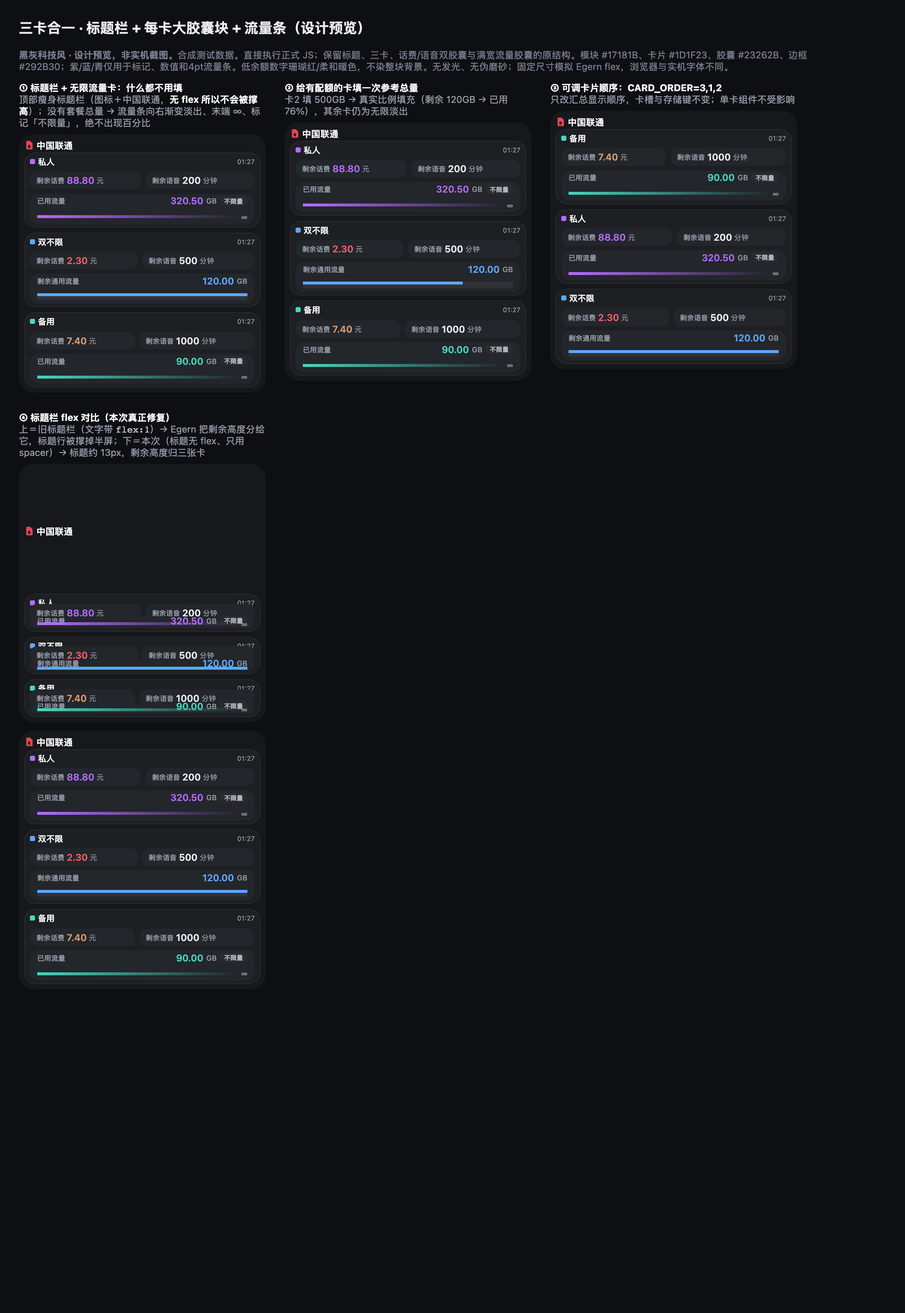
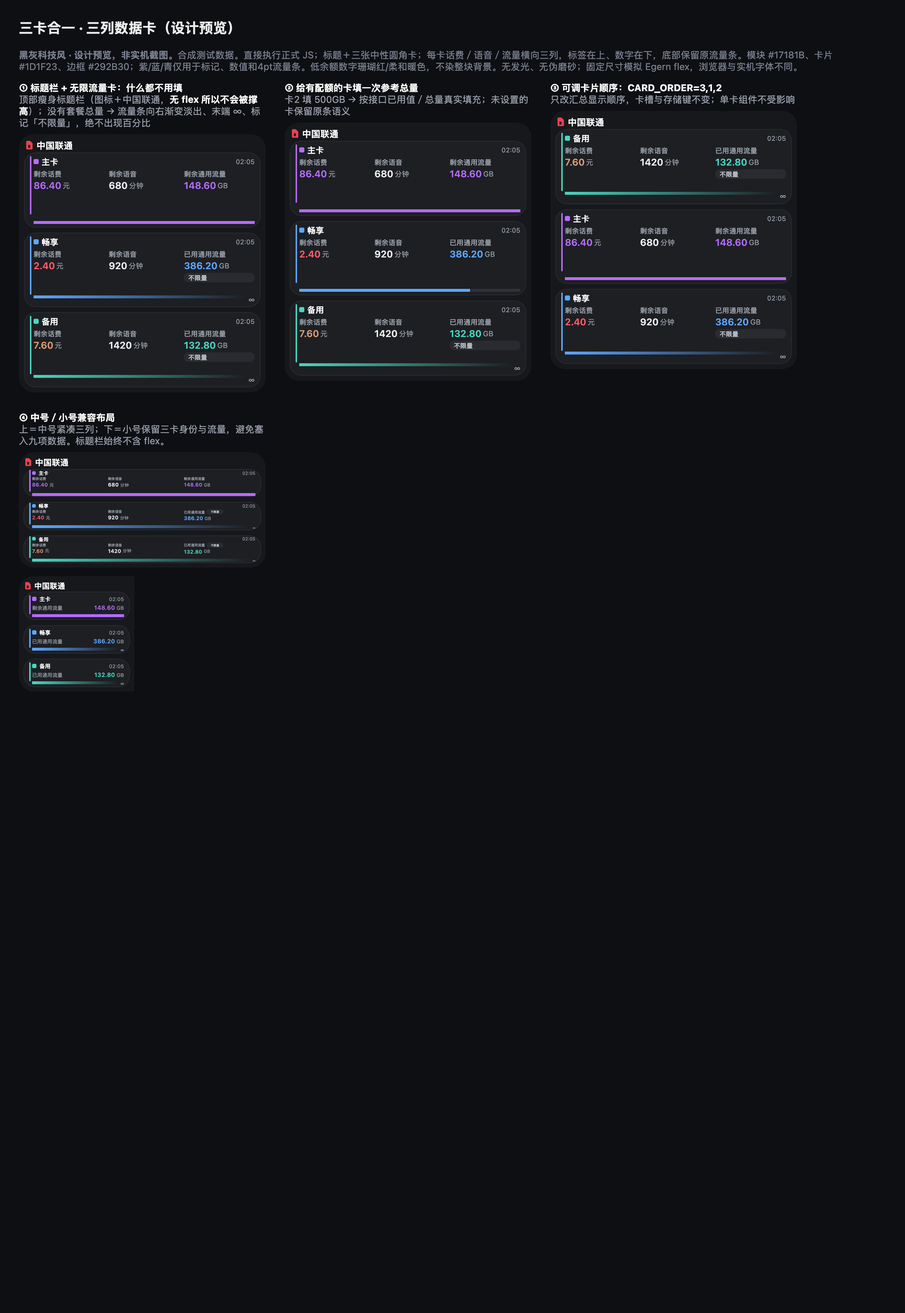
fix(widget): match reference with three-column summary cards

diff --git a/preview/compact.html b/preview/compact.html
@@ -1,6 +1,6 @@
-<!doctype html><meta charset="utf-8"><title>三卡汇总 胶囊块 DSL 设计预览</title>
+<!doctype html><meta charset="utf-8"><title>三卡汇总 三列卡 DSL 设计预览</title>
 <style>body{font:14px system-ui;background:#e7e9ee;padding:24px}#preview{margin-top:20px;box-shadow:0 8px 24px #0002;border-radius:20px;overflow:hidden;box-sizing:border-box}label{margin-right:12px}pre{max-height:220px;overflow:auto}p{max-width:900px}</style>
-<h2>三卡合一 · 标题栏 + 每卡大胶囊块 + 流量条 DSL 设计预览</h2><p class="note"><b>黑灰科技风 · 设计预览，非实机截图。</b>合成测试数据。直接执行正式 JS；保留标题、三卡、话费/语音双胶囊与满宽流量胶囊的原结构。模块 #17181B、卡片 #1D1F23、胶囊 #23262B、边框 #292B30；紫/蓝/青仅用于标记、数值和4pt流量条。低余额数字珊瑚红/柔和暖色，不染整块背景。无发光、无伪磨砂；固定尺寸模拟 Egern flex，浏览器与实机字体不同。</p>
+<h2>三卡合一 · 标题栏 + 三列数据卡 + 流量条 DSL 设计预览</h2><p class="note"><b>黑灰科技风 · 设计预览，非实机截图。</b>合成测试数据。直接执行正式 JS；话费／语音／流量横向三列，标签在上、数字在下，底部保留原流量条。模块 #17181B、卡片 #1D1F23、边框 #292B30；紫/蓝/青仅用于标记、数值和4pt流量条。低余额数字珊瑚红/柔和暖色，不染整块背景。无发光、无伪磨砂；固定尺寸模拟 Egern flex，浏览器与实机字体不同。</p>
 <label>尺寸 <select id="family"><option>systemMedium</option><option>systemSmall</option><option>systemLarge</option><option>systemExtraLarge</option><option>accessoryRectangular</option><option>accessoryCircular</option><option>accessoryInline</option></select></label>
 <label><input id="dark" type="checkbox">深色</label><label><input id="titlebar" type="checkbox" checked>顶部标题栏</label><label><input id="suffix" type="checkbox">尾四位</label><label><input id="fail" type="checkbox">卡2失效</label><label>卡1别名 <input id="alias" value="双不限"></label><label>卡2参考总量 <input id="total" placeholder="可选，如 500GB"></label><label>卡片顺序 <input id="order" placeholder="1,2,3"></label>
 <div id="preview"></div><details><summary>实际 JS 返回的 DSL</summary><pre id="tree"></pre></details>
@@ -17,7 +17,7 @@ function render(n){const e=document.createElement('div');e.dataset.type=n.type;c
   if(String(n.src).startsWith('sf-symbol:')){const g=document.createElement('div');g.style.width=sz+'px';g.style.height=sz+'px';g.style.display='flex';g.style.alignItems='center';g.style.justifyContent='center';g.title=n.src;g.innerHTML='<svg viewBox="0 0 24 24" width="'+sz+'" height="'+sz+'" fill="'+(n.color?color(n.color):($('dark').checked?'#EDEFF2':'#1B1C1E'))+'"><path d="M7 2h7.2L20 7.8V20a2 2 0 0 1-2 2H7a2 2 0 0 1-2-2V4a2 2 0 0 1 2-2zm2.5 9.5v7h5v-7h-5z"/></svg>';e.append(g);e.style.width=sz+'px';return e;}
   const img=document.createElement('img');img.src=localSrc(n.src);img.style.width=sz+'px';img.style.height=(n.height||15)+'px';img.style.objectFit=n.resizeMode||'contain';img.style.display='block';if(n.borderRadius)img.style.borderRadius=n.borderRadius+'px';e.append(img);e.style.width=sz+'px';return e;}
  if(n.type==='text'){e.textContent=n.text;s.fontSize=n.font.size+'px';s.fontWeight={regular:400,medium:500,semibold:600,bold:700}[n.font.weight];s.color=color(n.textColor);s.whiteSpace='nowrap';s.overflow='hidden';s.textOverflow='ellipsis';}
- else{const col=n.type==='widget'||n.direction!=='row';s.display='flex';s.flexDirection=col?'column':'row';s.alignItems=n.alignItems||'stretch';if(n.gap)s.gap=n.gap+'px';if(n.padding!==undefined)s.padding=Array.isArray(n.padding)?n.padding.map(v=>v+'px').join(' '):n.padding+'px';if(n.backgroundGradient){const g=n.backgroundGradient;s.background='linear-gradient(90deg,'+color(g.colors[0])+','+color(g.colors[1])+')';}else if(n.backgroundColor)s.background=color(n.backgroundColor);if(n.borderWidth){s.border=n.borderWidth+'px solid '+(n.borderColor?color(n.borderColor):'transparent');}if(n.borderRadius)s.borderRadius=n.borderRadius+'px';if(n.width)s.width=n.width+'px';if(n.height)s.height=n.height+'px';if(n.type==='spacer')s.flex=col?'1 1 0px':'1 1 0';for(const c of n.children||[]){const el=render(c);if(col&&hasFlex(c)){el.style.flex='1 1 0px';el.style.minHeight='0';}else if(c.flex)el.style.flex=String(c.flex)+' 1 auto';e.append(el);}}
+ else{const col=n.type==='widget'||n.direction!=='row';s.display='flex';s.flexDirection=col?'column':'row';s.alignItems=n.alignItems||'stretch';if(n.gap)s.gap=n.gap+'px';if(n.padding!==undefined)s.padding=Array.isArray(n.padding)?n.padding.map(v=>v+'px').join(' '):n.padding+'px';if(n.backgroundGradient){const g=n.backgroundGradient;s.background='linear-gradient(90deg,'+color(g.colors[0])+','+color(g.colors[1])+')';}else if(n.backgroundColor)s.background=color(n.backgroundColor);if(n.borderWidth){s.border=n.borderWidth+'px solid '+(n.borderColor?color(n.borderColor):'transparent');}if(n.borderRadius)s.borderRadius=n.borderRadius+'px';if(n.width)s.width=n.width+'px';if(n.height){s.height=n.height+'px';s.flexShrink='0';}if(n.type==='spacer')s.flex=col?'1 1 0px':'1 1 0';for(const c of n.children||[]){const el=render(c);if(col&&hasFlex(c)&&!c.height){el.style.flex='1 1 0px';el.style.minHeight='0';}else if(c.flex){el.style.flex=String(c.flex)+' 1 0px';if(!col)el.style.alignSelf='stretch';}e.append(el);}}
  if(n.flex&&n.type==='widget')s.flex=String(n.flex)+' 1 auto';s.minWidth='0';return e;}
 async function update(){const rows=[{f:['剩余话费','12.34','元'],v:['剩余语音','200','分钟'],fl:['已用流量','320.50','GB']},{f:['剩余话费','88.00','元'],v:['剩余语音','500','分钟'],fl:['剩余通用流量','120.00','GB']},{f:['剩余话费','5.00','元'],v:['剩余语音','1000','分钟'],fl:['已用流量','90.00','GB']}];const records=new Map(rows.map((r,i)=>['egern.unicom3.v1.slot.'+(i+1),{phone:'1300000000'+(i+1),cookie:'synthetic-not-a-real-cookie',capturedAt:1,updatedAt:Date.now()-120000,dataSchema:2,...($('fail').checked&&i===1?{invalid:true}:{}),data:[{title:r.f[0],value:r.f[1],unit:r.f[2]},{title:r.v[0],value:r.v[1],unit:r.v[2]},{title:r.fl[0],value:r.fl[1],unit:r.fl[2]}]}]));const t=await run({env:{VIEW:'all',CARD1_NAME:$('alias').value,CARD2_TOTAL:$('total').value,CARD_ORDER:$('order').value,SHOW_BRAND:$('titlebar').checked?'true':'false',SHOW_PHONE_SUFFIX:String($('suffix').checked)},widgetFamily:$('family').value,storage:{getJSON:k=>records.get(k),setJSON:(k,v)=>records.set(k,v)},http:{get:()=>{throw Error('preview must use fixture cache only')}}});const widths={systemMedium:360,systemSmall:170,systemLarge:360,systemExtraLarge:500,accessoryRectangular:170,accessoryCircular:90,accessoryInline:360};const f=FRAME[$('family').value]||FRAME.systemMedium;$('preview').style.width=f[0]+'px';$('preview').style.height=f[1]+'px';$('preview').style.overflow='hidden';$('preview').replaceChildren(render(t));$('tree').textContent=JSON.stringify(t,null,2);window.lastDSL=t;}
 for(const e of document.querySelectorAll('input,select'))e.addEventListener('input',update);await update();

diff --git a/preview/compact-preview.html b/preview/compact-preview.html
@@ -1,12 +1,12 @@
 <!doctype html><meta charset="utf-8"><title>三卡汇总 设计预览</title>
 <style>body{font:13px system-ui;background:#0e0f13;color:#eee;padding:26px;margin:0}.wrap{display:flex;gap:26px;flex-wrap:wrap}.box{width:338px}.cap{color:#9aa0ad;margin:0 0 8px}.cap b{color:#fff}.cap code{color:#c7ccd6}.holder{border-radius:20px;overflow:hidden}.note{color:#7b8090;margin-top:18px;max-width:1140px}code{color:#c7ccd6}</style>
-<h2 style="margin:0 0 6px">三卡合一 · 标题栏 + 每卡大胶囊块 + 流量条（设计预览）</h2>
-<p class="note"><b>黑灰科技风 · 设计预览，非实机截图。</b>合成测试数据。直接执行正式 JS；保留标题、三卡、话费/语音双胶囊与满宽流量胶囊的原结构。模块 #17181B、卡片 #1D1F23、胶囊 #23262B、边框 #292B30；紫/蓝/青仅用于标记、数值和4pt流量条。低余额数字珊瑚红/柔和暖色，不染整块背景。无发光、无伪磨砂；固定尺寸模拟 Egern flex，浏览器与实机字体不同。</p>
+<h2 style="margin:0 0 6px">三卡合一 · 三列数据卡（设计预览）</h2>
+<p class="note"><b>黑灰科技风 · 设计预览，非实机截图。</b>合成测试数据。直接执行正式 JS；标题＋三张中性圆角卡；每卡话费／语音／流量横向三列，标签在上、数字在下，底部保留原流量条。模块 #17181B、卡片 #1D1F23、边框 #292B30；紫/蓝/青仅用于标记、数值和4pt流量条。低余额数字珊瑚红/柔和暖色，不染整块背景。无发光、无伪磨砂；固定尺寸模拟 Egern flex，浏览器与实机字体不同。</p>
 <div class="wrap">
  <div class="box"><p class="cap"><b>① 标题栏 + 无限流量卡：什么都不用填</b><br>顶部瘦身标题栏（图标＋中国联通，<b>无 flex 所以不会被撑高</b>）；没有套餐总量 → 流量条向右渐变淡出、末端 ∞、标记「不限量」，绝不出现百分比</p><div class="holder" id="a"></div></div>
- <div class="box"><p class="cap"><b>② 给有配额的卡填一次参考总量</b><br>卡2 填 500GB → 真实比例填充（剩余 120GB → 已用 76%），其余卡仍为无限淡出</p><div class="holder" id="b"></div></div>
+ <div class="box"><p class="cap"><b>② 给有配额的卡填一次参考总量</b><br>卡2 填 500GB → 按接口已用值／总量真实填充；未设置的卡保留原条语义</p><div class="holder" id="b"></div></div>
  <div class="box"><p class="cap"><b>③ 可调卡片顺序：CARD_ORDER=3,1,2</b><br>只改汇总显示顺序，卡槽与存储键不变；单卡组件不受影响</p><div class="holder" id="c"></div></div>
- <div class="box"><p class="cap"><b>④ 标题栏 flex 对比（本次真正修复）</b><br>上＝旧标题栏（文字带 <code>flex:1</code>）→ Egern 把剩余高度分给它，标题行被撑掉半屏；下＝本次（标题无 flex、只用 spacer）→ 标题约 13px，剩余高度归三张卡</p><div class="holder" id="before"></div><div style="height:12px"></div><div class="holder" id="after"></div></div>
+ <div class="box"><p class="cap"><b>④ 中号／小号兼容布局</b><br>上＝中号紧凑三列；下＝小号保留三卡身份与流量，避免塞入九项数据。标题栏始终不含 flex。</p><div class="holder" id="before"></div><div style="height:12px"></div><div class="holder" id="after"></div></div>
 </div>
 <script type="module">
 import run from '../UnicomThreeCards.js';
@@ -31,12 +31,12 @@ function render(n,vertical){
   if(n.borderWidth)e.style.border=n.borderWidth+'px solid '+(n.borderColor?color(n.borderColor):'transparent');
   if(n.borderRadius)e.style.borderRadius=n.borderRadius+'px';
   if(n.width)e.style.width=n.width+'px';
-  if(n.height)e.style.height=n.height+'px';
+  if(n.height){e.style.height=n.height+'px';e.style.flexShrink='0';}
   if(n.type==='spacer')e.style.flex=col?'1 1 0px':'1 1 0';
   for(const c of n.children||[]){
    const el=render(c,col);
-   if(col&&hasFlex(c)){el.style.flex='1 1 0px';el.style.minHeight='0';}
-   else if(c.flex)el.style.flex=String(c.flex)+' 1 auto';
+   if(col&&hasFlex(c)&&!c.height){el.style.flex='1 1 0px';el.style.minHeight='0';}
+   else if(c.flex){el.style.flex=String(c.flex)+' 1 0px';if(!col)el.style.alignSelf='stretch';}
    e.append(el);
   }
  }
@@ -44,14 +44,14 @@ function render(n,vertical){
  e.style.minWidth='0';
  return e;
 }
-const rows=[['私人','剩余话费','88.80','元','剩余语音','200','分钟','已用流量','320.50','GB'],['双不限','剩余话费','2.30','元','剩余语音','500','分钟','剩余通用流量','120.00','GB'],['备用','剩余话费','7.40','元','剩余语音','1000','分钟','已用流量','90.00','GB']];
+const rows=[['主卡','剩余话费','86.40','元','剩余语音','680','分钟','剩余通用流量','148.60','GB'],['畅享','剩余话费','2.40','元','剩余语音','920','分钟','已用通用流量','386.20','GB'],['备用','剩余话费','7.60','元','剩余语音','1420','分钟','已用通用流量','132.80','GB']];
 function fixture(){const m=new Map();rows.forEach((r,i)=>{m.set('egern.unicom3.v1.slot.'+(i+1),{phone:'1300000000'+(i+1),cookie:'synthetic',capturedAt:1,updatedAt:Date.now()-600000,dataSchema:2,data:[{title:r[1],value:r[2],unit:r[3]},{title:r[4],value:r[5],unit:r[6]},{title:r[7],value:r[8],unit:r[9]}]});});return m;}
 function frame(root,family){const f=FRAME[family]||FRAME.systemLarge;root.style.width=f[0]+'px';root.style.height=f[1]+'px';root.style.overflow='hidden';return root;}
 async function draw(id,env,family='systemLarge',mangle){const m=fixture();const t=await run({env:{VIEW:'all',...env},widgetFamily:family,storage:{getJSON:k=>m.get(k),setJSON:(k,v)=>m.set(k,v)},http:{get:()=>{throw Error('fixture cache only')}}});if(mangle)mangle(t);document.getElementById(id).replaceChildren(frame(render(t),family));}
-await draw('a',{CARD1_NAME:'私人',CARD2_NAME:'双不限',CARD3_NAME:'备用'});
-await draw('b',{CARD1_NAME:'私人',CARD2_NAME:'双不限',CARD3_NAME:'备用',CARD2_TOTAL:'500GB'});
-await draw('c',{CARD1_NAME:'私人',CARD2_NAME:'双不限',CARD3_NAME:'备用',CARD_ORDER:'3,1,2'});
-// Re-create the OLD bug: put flex back on the title text so the heading takes the leftover height.
-await draw('before',{CARD1_NAME:'私人',CARD2_NAME:'双不限',CARD3_NAME:'备用'},'systemLarge',t=>{const bar=t.children[0];bar.children[1]={...bar.children[1],flex:1};bar.children.pop();});
-await draw('after',{CARD1_NAME:'私人',CARD2_NAME:'双不限',CARD3_NAME:'备用'});
+await draw('a',{CARD1_NAME:'主卡',CARD2_NAME:'畅享',CARD3_NAME:'备用'});
+await draw('b',{CARD1_NAME:'主卡',CARD2_NAME:'畅享',CARD3_NAME:'备用',CARD2_TOTAL:'500GB'});
+await draw('c',{CARD1_NAME:'主卡',CARD2_NAME:'畅享',CARD3_NAME:'备用',CARD_ORDER:'3,1,2'});
+// Compatibility previews keep all three slots on smaller home families.
+await draw('before',{CARD1_NAME:'主卡',CARD2_NAME:'畅享',CARD3_NAME:'备用'},'systemMedium');
+await draw('after',{CARD1_NAME:'主卡',CARD2_NAME:'畅享',CARD3_NAME:'备用'},'systemSmall');
 </script>

diff --git a/UnicomThreeCards.js b/UnicomThreeCards.js
@@ -146,7 +146,7 @@ const BAR_H=4, SEP_H=2;
 const CARD_RADIUS=16, CARD_GAP=7, TITLE_GAP=2, CARD_PAD=[4,7,4,7];
 const UNIT_MB={KB:1/1024,M:1,MB:1,G:1024,GB:1024,T:1024*1024,TB:1024*1024};
 // thead/ticon: the summary's slim top title bar (text / icon), kept small so the cards get the room.
-const FLOW_SIZES={systemSmall:{name:10,unit:8,title:8,value:10,label:8,tag:7,time:8,icon:6,thead:11,ticon:12,cpad:[2,6,2,6],fpad:[3,6,3,6],gap:2,fgap:1},systemMedium:{name:9,unit:8,title:8,value:10,label:8,tag:7,time:7,icon:6,thead:12,ticon:13,cpad:[1,6,1,6],fpad:[2,6,2,6],gap:2,fgap:1},systemLarge:{name:12,unit:10,title:10,value:13,label:10,tag:9,time:9,icon:7,thead:13,ticon:14,cpad:[4,9,4,9],fpad:[5,10,5,10],gap:3,fgap:2},systemExtraLarge:{name:13,unit:10,title:11,value:14,label:11,tag:10,time:10,icon:8,thead:14,ticon:15,cpad:[5,10,5,10],fpad:[6,11,6,11],gap:3,fgap:2}};
+const FLOW_SIZES={systemSmall:{name:8,unit:7,title:7,value:8,label:7,tag:5,time:7,icon:6,thead:11,ticon:12,cpad:[2,6,2,6],fpad:[3,6,3,6],gap:2,fgap:1},systemMedium:{name:7,unit:6,title:5,value:7,label:5,tag:4,time:6,icon:5,thead:12,ticon:13,cpad:[1,6,1,6],fpad:[2,6,2,6],gap:2,fgap:1},systemLarge:{name:12,unit:10,title:10,value:13,label:10,tag:9,time:9,icon:7,thead:13,ticon:14,cpad:[4,9,4,9],fpad:[5,10,5,10],gap:3,fgap:2},systemExtraLarge:{name:13,unit:10,title:11,value:14,label:11,tag:10,time:10,icon:8,thead:14,ticon:15,cpad:[5,10,5,10],fpad:[6,11,6,11],gap:3,fgap:2}};
 // Which resource the API title describes; never inferred from the value itself.
 function flowSemantic(title) {
  if(typeof title!=='string') return 'neutral';
@@ -244,8 +244,8 @@ function compactIdentity(alias,suffix,family,s) {
  if(suffix) parts.push({...text('· 尾号'+suffix,s.name-2,COLORS.value,'medium'),minScale:1});
  return parts;
 }
-// Summary geometry is unchanged: identity/time, two resource capsules, full-width flow capsule.
-// Only surfaces, text accents and warning colours differ from the previous tinted design.
+// Three-column reference layout: identity/time, fee + voice + flow, bottom bar.
+// A narrow documented stack rail marks the slot; no tinted metric capsules.
 function compactCard(ctx,result,selection,family,metric) {
  const lock=family.startsWith('accessory'),small=family==='systemSmall';
  const s=FLOW_SIZES[family]||FLOW_SIZES.systemMedium;
@@ -254,18 +254,18 @@ function compactCard(ctx,result,selection,family,metric) {
  const dot={type:'stack',width:s.icon,height:s.icon,borderRadius:2,backgroundColor:SUMMARY_COLORS[slot],children:[]};
  const time=result.updatedAt?new Date(result.updatedAt).toLocaleTimeString('zh-CN',{hour:'2-digit',minute:'2-digit',timeZone:'Asia/Shanghai'}):'--:--';
  const idRow=row([dot,...compactIdentity(alias,lock?'':result.suffix,family,s),spacer(),{...text(time,s.time,SUMMARY_MUTED),minScale:1}],4);
- const block=children=>({type:'stack',direction:'column',gap:s.gap,padding:CARD_PAD,flex:1,backgroundColor:slotCardBg(slot),borderRadius:CARD_RADIUS,borderWidth:1,borderColor:slotCardBorder(slot),children});
+ const block=children=>({type:'stack',direction:'row',alignItems:'start',gap:s.gap,padding:family==='systemMedium'?[0,7,0,7]:CARD_PAD,flex:1,backgroundColor:slotCardBg(slot),borderRadius:CARD_RADIUS,borderWidth:1,borderColor:slotCardBorder(slot),children:[{type:'stack',direction:'column',width:2,height:small?26:family==='systemMedium'?30:80,borderRadius:1,backgroundColor:SUMMARY_COLORS[slot],children:[]},{type:'stack',direction:'column',gap:family==='systemMedium'?1:s.gap,flex:1,children}]});
  if(!result.data) return lock?{type:'stack',direction:'column',gap:2,children:[idRow,text(result.status,9,COLORS.accent)]}:block([idRow,text(result.status,small?9:11,COLORS.accent)]);
  const [fee,voice,flow]=result.data;
  if(lock) return {type:'stack',direction:'column',gap:1,children:[row([dot,...compactIdentity(alias,'',family,s),text(flow.value,s.value,COLORS.value,'semibold'),text(flow.unit,s.unit,SUMMARY_MUTED)],3)]};
  const feeColor=summaryFeeColor(fee,balanceThreshold(ctx.env?.LOW_BALANCE_THRESHOLD),slot);
  const valueColor=SUMMARY_COLORS[slot];
- const topRow=row([{...text(flow.title,s.title,SUMMARY_MUTED,'medium'),flex:1},text(flow.value,s.value,valueColor,'semibold'),text(flow.unit,s.unit,SUMMARY_MUTED,'medium'),...(metric.unlimited?[chip('不限量',s)]:[])],4);
- // The flow capsule is flexible and holds a spacer above its bar, so when the card is given extra
- // height the bar sinks to the bottom instead of leaving a dead tinted gap under the label.
- const flowCapsule={type:'stack',direction:'column',gap:s.fgap,padding:s.fpad,flex:1,backgroundColor:slotTint(slot),borderRadius:12,children:[topRow,spacer(),flowBar(slot,metric,s)]};
- const mid=small?[]:[row([miniCapsule(fee,slot,s,feeColor),miniCapsule(voice,slot,s)],6)];
- return block([idRow,...mid,flowCapsule]);
+ const column=(d,color,badge=false)=>({type:'stack',direction:'column',flex:1,gap:s.fgap,children:[...(badge&&family==='systemMedium'?[row([text(d.title,s.label,SUMMARY_MUTED,'medium'),chip('不限量',s)],2)]:[text(d.title,s.label,SUMMARY_MUTED,'medium')]),row([text(d.value,s.value,color,'semibold'),text(d.unit,s.unit,SUMMARY_MUTED)],2),...(badge&&family!=='systemMedium'?[chip('不限量',s)]:[])]});
+ // Small widgets keep the three identities and exact flow values, without cramming nine metrics.
+ const metrics=small?row([text(flow.title,s.title,SUMMARY_MUTED),spacer(),text(flow.value,s.value,valueColor,'semibold'),text(flow.unit,s.unit,SUMMARY_MUTED)],2):row([column(fee,feeColor),column(voice,SUMMARY_INK),column(flow,valueColor,metric.unlimited)],6);
+ const bottom={type:'stack',direction:'column',height:metric.unlimited?Math.max(BAR_H,s.tag*1.3):metric.ratio===null?SEP_H:BAR_H,children:[flowBar(slot,metric,s)]};
+ if(!small){metrics.alignItems='start';metrics.height=s.label*1.3+s.value*1.3+s.fgap+(metric.unlimited&&family!=='systemMedium'?s.tag*1.3+2+s.fgap:0);}
+ return block([idRow,metrics,spacer(),bottom]);
 }
 // Decide each card's bar: unlimited (no total + "已用" label) fades out; a configured total gives a
 // real used/total ratio; otherwise a relative length versus the max same-caliber value of the three.

diff --git a/tests/compact.test.js b/tests/compact.test.js
@@ -3,6 +3,7 @@ import assert from 'node:assert/strict';
 import run from '../UnicomThreeCards.js';
 import {mock,capture,phones,cards,cardHolder} from './helpers.js';
 const texts=n=>[...(n.type==='text'?[n.text]:[]),...(n.children||[]).flatMap(texts)];
+const nodes=n=>[n,...(n.children||[]).flatMap(nodes)];
 test('all renders three compact independent rows with exact API flow semantics',async()=>{
  const m=mock();for(const p of phones) await capture(m,p);
  m.ctx.env={VIEW:'all',CARD1_NAME:'双不限',CARD2_NAME:'副卡',CARD3_NAME:'备用'};
@@ -52,7 +53,7 @@ test('all settings retain exact titles, alias and cache timestamp without rerequ
  assert.equal(m.calls.length,3);assert.equal(t.backgroundColor.light,'#F3F4F6B3');assert.ok(texts(t).includes('我的三卡'));assert.ok(texts(t).includes('· 尾号0001'));
  assert.deepEqual([1,2,3].map(i=>m.ctx.storage.getJSON('egern.unicom3.v1.slot.'+i)),records);
 });
-test('medium summary is a three-row capsule card inside one rounded slot-tinted block',async()=>{
+test('medium summary is a three-column metric row inside one neutral rounded card',async()=>{
  const m=mock();for(const p of phones)await capture(m,p);
  const t=await run({...m.ctx,env:{VIEW:'all'}});
  assert.equal(cards(t).length,3);
@@ -62,24 +63,19 @@ test('medium summary is a three-row capsule card inside one rounded slot-tinted 
  cards(t).forEach((card,i)=>{
   assert.equal(card.type,'stack');assert.equal(card.gap,2);assert.equal(card.flex,1); // cards share the height
   // The whole card is one rounded block: slot wash over the base + a brighter 1px outline.
-  assert.equal(card.borderRadius,16);assert.equal(card.borderWidth,1);assert.deepEqual(card.padding,[4,7,4,7]);
+  assert.equal(card.borderRadius,16);assert.equal(card.borderWidth,1);assert.deepEqual(card.padding,[0,7,0,7]);
   assert.equal(card.backgroundColor.light,'#F8F9FB');
   assert.equal(card.backgroundColor.dark,'#1D1F23');
   assert.equal(card.borderColor.light,'#DDE1E7');
-  const [idRow,mid,flowCap]=card.children;
-  assert.equal(idRow.type,'stack');assert.equal(mid.type,'stack');assert.equal(flowCap.type,'stack');
-  // row1: slot square + identity + right-aligned HH:mm, no big value on this line
+  const [rail,content]=card.children;
+  assert.equal(rail.width,2);assert.equal(rail.backgroundColor.dark,['#B66CFF','#5EA7FF','#48D7C0'][i]);
+  const [idRow,metrics,space,bottom]=content.children;
   assert.equal(idRow.children[0].type,'stack');assert.ok(idRow.children[0].width>0);
   assert.equal(idRow.children.at(-1).type,'text');assert.match(idRow.children.at(-1).text,/^(\d{2}:\d{2}|--:--)$/);
-  // row2: two equal capsules side by side, each keeping its own slot tint
-  assert.equal(mid.children.length,2);assert.ok(mid.children.every(c=>c.flex===1));
-  assert.equal(mid.children[0].backgroundColor.light,'#FFFFFF');
-  // row3: one full-width flow capsule (label + value over the bar), tinted with this card's slot.
-  // It is flexible and holds a spacer above the bar so extra height sinks the bar to the bottom.
-  assert.equal(flowCap.children.length,3);
-  assert.equal(flowCap.children[1].type,'spacer');
-  assert.equal(flowCap.backgroundColor.light,'#FFFFFF');
-  assert.equal(flowCap.children[2].children[0].backgroundGradient.type,'linear');
+  assert.equal(metrics.direction,'row');assert.equal(metrics.children.length,3);
+  for(const col of metrics.children){assert.equal(col.flex,1);assert.equal(col.direction,'column');assert.ok(!col.backgroundColor);assert.ok(nodes(col.children[0]).some(n=>n.type==='text'));assert.equal(col.children[1].direction,'row');}
+  assert.equal(space.type,'spacer');
+  assert.equal(bottom.children[0].children[0].backgroundGradient.type,'linear');
  });
  assert.ok(!texts(t).join('|').includes('%'));
 });

diff --git a/tests/three-column.test.js b/tests/three-column.test.js
@@ -1,0 +1,44 @@
+import test from 'node:test';
+import assert from 'node:assert/strict';
+import {readFileSync} from 'node:fs';
+import {createHash} from 'node:crypto';
+import run from '../UnicomThreeCards.js';
+import {mock,capture,phones,cards} from './helpers.js';
+const nodes=n=>[n,...(n.children||[]).flatMap(nodes)];
+for(const family of ['systemMedium','systemLarge','systemExtraLarge']) test('three metric columns with a single flow value and bottom bar in '+family,async()=>{
+ const m=mock();for(const p of phones)await capture(m,p);
+ await run({...m.ctx,env:{VIEW:'all'}});
+ const records=structuredClone([1,2,3].map(i=>m.ctx.storage.getJSON('egern.unicom3.v1.slot.'+i)));
+ const t=await run({...m.ctx,widgetFamily:family,env:{VIEW:'all',SHOW_PHONE_SUFFIX:'true'}});
+ for(const n of nodes(t))if(n.alignItems)assert.ok(['start','end','center'].includes(n.alignItems),'documented alignment only');
+ const hasFlex=n=>!!n.flex||(n.children||[]).some(hasFlex);
+ assert.equal(hasFlex(t.children[0]),false);
+ assert.equal(t.children[0].children[0].src,'sf-symbol:simcard.fill');
+ assert.equal(t.children[0].children[1].textColor.dark,'#FFFFFF');
+ cards(t).forEach((card,i)=>{
+  const [rail,content]=card.children;
+  assert.equal(card.direction,'row');assert.equal(rail.width,2);assert.equal(rail.children.length,0);
+  assert.equal(rail.backgroundColor.dark,['#B66CFF','#5EA7FF','#48D7C0'][i]);
+  const [header,metrics,space,bottom]=content.children;
+  assert.equal(hasFlex(header),false,'identity must not absorb remaining card height');
+  assert.equal(header.children.at(-1).text,new Date(records[i].updatedAt).toLocaleTimeString('zh-CN',{hour:'2-digit',minute:'2-digit',timeZone:'Asia/Shanghai'}));
+  assert.equal(metrics.children.length,3);assert.equal(metrics.direction,'row');
+  metrics.children.forEach((col,j)=>{
+   assert.equal(col.direction,'column');assert.equal(col.flex,1);assert.ok(!col.backgroundColor);
+   assert.ok(nodes(col.children[0]).some(n=>n.text===records[i].data[j].title));
+   assert.equal(col.children[1].children[0].text,records[i].data[j].value);
+   assert.equal(col.children[1].children[1].text,records[i].data[j].unit);
+  });
+  assert.equal(nodes(card).filter(n=>n.text===records[i].data[2].value).length,1);
+  assert.equal(space.type,'spacer');assert.equal(bottom.children.length,1);
+ });
+ assert.equal(m.calls.length,3);assert.deepEqual([1,2,3].map(i=>m.ctx.storage.getJSON('egern.unicom3.v1.slot.'+i)),records);
+});
+test('visual migration leaves capture/load/query, bar metrics and single-card path byte-identical',()=>{
+ const after=readFileSync('UnicomThreeCards.js','utf8');
+ const hash=s=>createHash('sha256').update(s).digest('hex');
[1 lines of base64/hex data omitted]
+  const chunk=a==='prefix'?after.slice(0,after.indexOf(b)):after.slice(after.indexOf(a),b?after.indexOf(b):undefined);
+  assert.equal(hash(chunk),want,a);
+ }
+});

diff --git a/tests/airport.test.js b/tests/airport.test.js
@@ -19,14 +19,14 @@ async function setupFlows(flows){
  return m;
 }
 // The bar is always the last child of the flow capsule, which is the last child of the card.
-const barOf=card=>card.children.at(-1).children.at(-1);
+const barOf=card=>card.children[1].children.at(-1).children.at(-1);
 const hexRGB=h=>[1,3,5].map(i=>parseInt(h.slice(i,i+2),16));
 function hsv(hex){const [r,g,b]=hexRGB(hex).map(v=>v/255);const mx=Math.max(r,g,b),mn=Math.min(r,g,b),d=mx-mn;let h=0;if(d){if(mx===r)h=((g-b)/d)%6;else if(mx===g)h=(b-r)/d+2;else h=(r-g)/d+4;h=(h*60+360)%360;}return {h,d};}
 function colorStrings(n){const out=[];const visit=v=>{if(typeof v==='string'){if(/^#[0-9A-Fa-f]{6,8}$/.test(v))out.push(v);}else if(Array.isArray(v))v.forEach(visit);else if(v&&typeof v==='object')for(const x of Object.values(v))visit(x);};visit(n);return out;}
 test('summary slot palette is blue/purple/cyan and no colour is yellow or orange',async()=>{
  const m=await setup(used);
  const t=await run({...m.ctx,env:{VIEW:'all'}});
- const dots=cards(t).map(c=>c.children[0].children[0].backgroundColor);
+ const dots=cards(t).map(c=>c.children[1].children[0].children[0].backgroundColor);
  assert.deepEqual(dots.map(c=>c.dark),['#B66CFF','#5EA7FF','#48D7C0']);
  assert.deepEqual(dots.map(c=>c.light),['#8843C2','#286CC4','#087F70']);
  assert.equal(new Set(dots.map(c=>c.dark)).size,3);
@@ -43,8 +43,8 @@ test('unlimited cards need no configuration: gradient fade, ∞ and a 不限量 
  assert.equal(texts(t).filter(x=>x==='407.44').length,3);
  assert.ok(!s.includes('%'));
  for(const card of cards(t)){
-  const cap=card.children.at(-1);
-  assert.ok(texts(cap.children[0]).includes('不限量'),'chip label');
+  const content=card.children[1];
+  assert.ok(texts(content.children[1]).includes('不限量'),'chip label');
   const bar=barOf(card);
   assert.equal(bar.direction,'row');
   const track=bar.children[0];

diff --git a/tests/cardblock.test.js b/tests/cardblock.test.js
@@ -8,7 +8,7 @@ const texts=n=>[...(n.type==='text'?[n.text]:[]),...(n.children||[]).flatMap(tex
 // Slot-tinted card wash (dark) identifies each card after CARD_ORDER rearranges the rows.
 const cardDark=['#1D1F23','#1D1F23','#1D1F23'];
 
-test('every home summary card is one rounded slot-tinted block with a brighter 1px outline and card gap',async()=>{
+test('every home summary card is one neutral rounded block with a 1px outline and card gap',async()=>{
  for(const family of ['systemSmall','systemMedium','systemLarge','systemExtraLarge']){
   const m=mock();for(const p of phones)await capture(m,p);
   const t=await run({...m.ctx,widgetFamily:family,env:{VIEW:'all'}});
@@ -23,7 +23,7 @@ test('every home summary card is one rounded slot-tinted block with a brighter 1
    assert.equal(card.backgroundColor.light,'#F8F9FB',family);
    assert.equal(card.borderColor.dark,'#292B30',family);
    // the dark wash must stay the specified subtle 0x14..0x1F range, not a solid fill
-   assert.equal(card.children[0].children[0].backgroundColor.dark,['#B66CFF','#5EA7FF','#48D7C0'][i]);
+   assert.equal(card.children[1].children[0].children[0].backgroundColor.dark,['#B66CFF','#5EA7FF','#48D7C0'][i]);
    assert.equal(card.backgroundColor.dark.length,7,'neutral opaque card, no slot wash');
    assert.ok(Array.isArray(card.padding),family);
   });

diff --git a/tests/dark-neutral.test.js b/tests/dark-neutral.test.js
@@ -15,11 +15,12 @@ test('neutral summary surfaces, severity-only fee colors and 4pt theme bars pres
  for(const badge of badges){assert.equal(badge.backgroundColor.dark,'#292B30');assert.equal(badge.children[0].textColor.dark,'#C2C6CE');assert.equal(badge.children[0].font.size,9);}
  cards(t).forEach((c,i)=>{
   assert.equal(c.backgroundColor.dark,'#1D1F23');assert.equal(c.borderColor.dark,'#292B30');
-  assert.equal(c.children.length,3);assert.equal(c.children[1].children.length,2);
-  assert.equal(c.children[1].children[0].backgroundColor.dark,'#23262B');
+  assert.equal(c.children.length,2);assert.equal(c.children[0].width,2);
+  assert.equal(c.children[1].children[1].children.length,3);
+  assert.ok(c.children[1].children[1].children.every(n=>!n.backgroundColor));
   const all=nodes(c);assert.equal(all.find(n=>n.text===fee[i]).textColor.dark,['#B66CFF','#FF5C68','#D99A70'][i]);
   assert.equal(all.filter(n=>n.text===flow[i]).length,1);
-  const bar=c.children[2].children[2];assert.equal(i?bar.children[0].height:bar.height,4);
+  const bar=c.children[1].children.at(-1).children[0];assert.equal(i?bar.children[0].height:bar.height,4);
  });
  const saved=structuredClone([1,2,3].map(i=>m.ctx.storage.getJSON('egern.unicom3.v1.slot.'+i)));
  await run({...m.ctx,widgetFamily:'systemLarge',env:{VIEW:'all',CARD_ORDER:'3,1,2'}});

diff --git a/tests/brandicon.test.js b/tests/brandicon.test.js
@@ -22,7 +22,7 @@ test('summary shows a 中国联通 title bar (module icon + text) at the top by 
  assert.equal(images(t).length,1); // exactly one icon, only in the title bar
  // the three cards still follow the title bar, each with its own slot square (not the icon)
  assert.equal(cards(t).length,3);
- assert.ok(cards(t).every(c=>c.children[0].children[0].type==='stack'));
+ assert.ok(cards(t).every(c=>c.children[1].children[0].children[0].type==='stack'));
  // no timestamp on the title bar itself
  assert.ok(!texts(bar).some(s=>/^\d{2}:\d{2}$/.test(s)));
 });

diff --git a/INSTALL.md b/INSTALL.md
@@ -19,13 +19,13 @@ https://raw.githubusercontent.com/liuweiqiang0523/egern-unicom-threecards/main/U
 
 **已有三卡用户最短路径：** 工具 → 模块 → 编辑原联通模块，把原 URL 换成上方 Compact URL，保留已有外观 Env、更新模块和远程 JS。不要先删除旧模块、不要清空 storage、不要同时启用两个联通捕获模块。两版有相同 capture/generic 名称；官方未定义跨模块重名冲突如何合并，故用原条目替换 URL，而不是并装。新模块接管相同捕获规则、MITM、JS URL及 `egern.unicom3.v1.slot.N`，沿用已捕获三卡；不需手填手机号/Cookie或重新抓取。
 
-先到分析 → 小组件画廊打开“中国联通 · 三卡”，核对每张卡三行，再在桌面添加/编辑 **Egern 中号**，名称选“中国联通 · 三卡”。旧桌面“中国联通卡N”在替换后暂时找不到定义不表示凭据丢失，桌面长按重新选择新名称即可。推荐中号（三卡各三行；**本次已把顶部标题栏与卡间距整体收紧**——标题栏去掉 `flex` 后不再被 Egern 分走剩余高度，空出来的高度归三张卡，让三行更宽松）；大号更舒展；小号保留三卡身份与流量条、省略话费/语音胶囊；锁屏圆形/行内为三卡流量摘要，极窄空间可能难读，请改中号，绝不只显示卡1冒充汇总。
+画廊打开“中国联通 · 三卡”后核对三张卡。中／大号汇总采用话费、语音、流量横向三列（标签在上、数值与单位在下），每卡保留身份和原成功 HH:mm；大号推荐。小号保留三卡身份与流量；锁屏保持三卡摘要，极窄空间可能难读，不会只显示卡1。
 
-**顶部标题栏（本次已修复占高根因）**：汇总组件顶部默认显示一行**紧凑**标题栏——左侧为 SF Symbol 图标（`sf-symbol:simcard.fill`，本地解析、不联网，尺寸比文字大一档），右侧为半粗「中国联通」（字号：小 11／中 12／大 13／超大 14pt；上一轮为 10/11/12/13，按实机反馈再调大一档），行内**不再有额外上下留白**，与第一张卡之间只留约 **2pt**，整行保持自然高度（约 15-16px）。**关键修复**：标题栏内部**不得出现任何 `flex`**——Egern 会把“子树含 `flex`”的组件子节点当作可分配剩余高度的子节点；上一版把 `flex:1` 放在标题文字上（同时把三张卡收进内层 holder，使可分配子节点从 4 个变成 2 个），标题行因此被分走近半个组件高度（实机截图实测标题行约 160pt），**改小字号完全无效**。现在标题行只用尾部 `spacer` 实现左对齐、不含 flex，剩余高度交给三张卡（每卡 `flex:1`；卡片内的流量胶囊也 `flex:1` 并用 spacer 把横条压到底部）。可用 `WIDGET_TITLE` 覆盖标题文字（仍做安全校验）。环境变量 `SHOW_BRAND` 显式设为 `false`/`off`/`0` 时，**整行（图标＋文字）一起隐藏**；**留空＝显示**（即默认显示）。不想看到这行标题栏时，把 `SHOW_BRAND` 设为 `false`/`off`/`0` 即可整行隐藏。时间仍显示在每张卡行尾，不在标题栏。**单卡组件不加这行标题栏**（单卡的身份标题仍沿用原内联样式）。
+**顶部标题栏（本次已修复占高根因）**：汇总组件顶部默认显示一行**紧凑**标题栏——左侧为 SF Symbol 图标（`sf-symbol:simcard.fill`，本地解析、不联网，尺寸比文字大一档），右侧为半粗「中国联通」（字号：小 11／中 12／大 13／超大 14pt；上一轮为 10/11/12/13，按实机反馈再调大一档），行内**不再有额外上下留白**，与第一张卡之间只留约 **2pt**，整行保持自然高度（约 15-16px）。**关键修复**：标题栏内部**不得出现任何 `flex`**——Egern 会把“子树含 `flex`”的组件子节点当作可分配剩余高度的子节点；上一版把 `flex:1` 放在标题文字上（同时把三张卡收进内层 holder，使可分配子节点从 4 个变成 2 个），标题行因此被分走近半个组件高度（实机截图实测标题行约 160pt），**改小字号完全无效**。现在标题行只用尾部 `spacer` 实现左对齐、不含 flex，剩余高度交给三张卡（每卡 `flex:1`；卡内三列信息下方用 spacer 把横条压到底部）。可用 `WIDGET_TITLE` 覆盖标题文字（仍做安全校验）。环境变量 `SHOW_BRAND` 显式设为 `false`/`off`/`0` 时，**整行（图标＋文字）一起隐藏**；**留空＝显示**（即默认显示）。不想看到这行标题栏时，把 `SHOW_BRAND` 设为 `false`/`off`/`0` 即可整行隐藏。时间仍显示在每张卡行尾，不在标题栏。**单卡组件不加这行标题栏**（单卡的身份标题仍沿用原内联样式）。
 
-**每张卡保持一个圆角容器**：仅汇总 UI 更新为黑灰玻璃质感，模块深色 `#17181B`、卡片 `#1D1F23`、内部胶囊 `#23262B`、1px 边框 `#292B30`。不再用大面积卡槽色填充；圆角16、卡间7pt、内边距与 flex 分配保持原样。这里只是颜色层次，不是系统磨砂/模糊材质。标题离线 SIM 图标使用品牌红 `#E84353`（不是联通商标图形），标题文字保持白色；「不限量」使用小号深灰 `#292B30` Badge、灰白 `#C2C6CE` 文字，尺寸与原布局不变。
+**每卡为中性深色圆角卡**：模块 `#17181B`、卡片 `#1D1F23`、边框 `#292B30`，圆角16、卡间7pt。左侧2pt细色轨配合同色身份点，不大面积染色。标题白字＋品牌红离线 SIM 符号（不是联通商标）。不限量为小号深灰 `#292B30` Badge、灰白 `#C2C6CE` 字。
 
-每张卡仍为三行：① 强调色标记＋别名＋按需尾四位，右端原成功 HH:mm；② 话费／语音两个并排黑灰胶囊；③ 满宽流量胶囊（接口原义标签＋唯一数值＋单位＋原流量条）。不将三项改成横排，以免改变既有布局。槽位1紫 `#B66CFF`、槽位2蓝 `#5EA7FF`、槽位3青 `#48D7C0`；正常话费及流量数值使用对应强调色，语音近白、说明与单位低对比灰。低话费阈值规则不变，阈值一半以下数字用珊瑚红 `#FF5C68`，其余低余额用柔和暖色 `#D99A70`，底色不警告染色。颜色按原槽位固定，不通过尾号或别名重映射。
+每卡：① 色点／别名／按需尾四位／右端原成功 HH:mm；② 话费、语音、流量横向三列，标签在上、数字单位在下；③ 底部原流量条。每卡流量值只显示一次。槽位1紫 `#B66CFF`、2蓝 `#5EA7FF`、3青 `#48D7C0`；话费2.10等低于阈值一半的值用 `#FF5C68`，7.20等其他低余额用 `#D99A70`，原门槛逻辑不变。
 
 **卡片顺序可调**：汇总组件设置里的「卡片显示顺序」`CARD_ORDER`（如 `3,1,2`，默认 `1,2,3`）只改变三张卡在汇总里的显示次序，**不影响卡槽、存储键或单卡组件**。只允许 1/2/3 各出现一次；缺省或非法（如 `1,1,2`、`4`、`3,2`）一律回退默认 `1,2,3`。
 
@@ -46,7 +46,7 @@ https://raw.githubusercontent.com/liuweiqiang0523/egern-unicom-threecards/main/U
 
 主配置增量 `UnicomLocalWidgets.fragment.yaml` 现含“联通本地三卡汇总”（VIEW=all）及三个可选单卡。只添加汇总也可；新增/删/排序不改卡槽。此文件不是模块或完整配置，不能用它覆盖机场 YAML。下面保留详细增量迁移说明；**不是安装紧凑模块的前置条件**。
 
-交付验证为 Node 真正执行生成 DSL、完整回归、YAML、CI及 raw 文件读回；未调用真实账号接口。本次修复真机占高的根因（标题栏不再含 `flex`，剩余高度归三张卡）、把标题栏图标改为离线 SF Symbol（修掉实机「？」占位）、并把标题字号上调一档（小 11／中 12／大 13／超大 14）、卡间距 9→7pt；“顶部标题栏 + 每卡大胶囊块”布局**仍待 iPhone 实机复检**——预览已按各档真实高度渲染并模拟 Egern 的竖直 `flex` 分配（旧标题栏带 `flex` 时标题行约 169px、新版约 16px），但浏览器字体度量与 Egern 原生渲染仍可能不同。`preview/compact.html`（交互，含尺寸、深色、顶部标题栏开关、卡片顺序等控件）与 `preview/compact-preview.png`（静态对比图，含“标题栏 flex”前后对比）都是用真实 JS 生成的 DSL + 合成测试 fixture 渲染的**设计预览，非实机截图**，也不含用户真实余额；预览里 SF Symbol 图标用 SVG 近似绘制。
+验证：正式 JS 执行 DSL、回归、YAML、CI及 raw 字节读回；预览使用合成数据，未调用真实账号接口。`preview/compact-preview.png` 是固定尺寸、模拟 Egern flex 的设计预览，不是 iPhone 截图；原生字体和排版仍需手机验收。
 
 ## 已安装用户升级
 
@@ -117,7 +117,7 @@ https://raw.githubusercontent.com/liuweiqiang0523/egern-unicom-threecards/main/U
 
 ### 机场订阅排版参考
 
-以下为旧版结构说明（布局仍沿用，旧“卡槽色淡染”配色已被上述黑灰中性配色替代）：顶部默认一行标题栏（模块图标＋「中国联通」，可用 `WIDGET_TITLE` 覆盖、`SHOW_BRAND=false/off/0` 隐藏）；每卡先是卡槽色方块＋别名＋尾号＋HH:mm，下面两个卡槽色淡染胶囊「话费／语音」，再一个满宽流量胶囊（接口原义标签＋数值＋条）；整卡内容包在一个卡槽色低 alpha 淡染、1px 略亮描边、`borderRadius` 16 的圆角块里，卡间留白 7pt（本次由 9pt 收紧），便于一眼分辨三卡。**顶部标题栏不含 `flex`、图标离线**：SF Symbol（`sf-symbol:simcard.fill`）＋中国联通（文字小 11／中 12／大 13／超大 14pt、图标再大一档），行内零留白、距首卡约 2pt，保持自然高度（约 16px），剩余高度分给三张卡（每卡 `flex:1`）。**流量条**：无限量卡（“已用”语义且无 `CARDn_TOTAL`）用 `backgroundGradient` 淡出、末端 `∞`、标记「不限量」，没有尽头；**填了 `CARDn_TOTAL`** 才画真实比例（已用/总量，或（总量−剩余）/总量，例：500GB 剩余 158.17GB → 已用 68.4%）；**未填**时按该卡数值相对三卡同口径最大值的**相对长度**——是相对量而非套餐百分比。任何情况都不显示百分比数字、不出现假 0%。不拿 `flowPersent` 字段名当百分比，不通过未知总量做减法。显示次序可用 `CARD_ORDER` 调整（仅汇总，不影响卡槽/存储/单卡）。原单卡保留 A 三色胶囊；汇总不改变资源原义或数值。
+汇总当前结构已改为三列数据卡（见上文），旧话费／语音双胶囊＋宽流量胶囊结构不再使用。流量条的不限量淡出／∞、真实配额比值、同口径相对长度全部保留；不显示百分比、不推测总量。单卡仍保留原 A 胶囊布局。
 
 ## 首次安装
 
@@ -129,7 +129,7 @@ https://raw.githubusercontent.com/liuweiqiang0523/egern-unicom-threecards/main/U
 
 ## 外观
 
-A 轻量账单（**单卡**组件）：顶部卡身份及按卡槽固定配色的小圆点，右侧仅 HH:mm（北京时间）。话费淡暖杏、语音淡紫、流量浅蓝，三枚无描边、无渐变胶囊；深色使用低 alpha 淡色底及白色数字。小号话费居中、语音/流量并排；中/大号横排。上下内边距8、内容间距6，标题身份与尾号、时间独立排版；移除标题中的多余弹性 spacer，无数据页不再用垂直弹性 spacer 撑开空白。不设置组件外框固定高度，锁屏沿用0/4内边距。动态资源标签提亮并使用 medium 字重，数值精度及单位不改。正常不显示“已更新”或底部装饰短横线，缓存/失效等异常保留准确提示。低话费只强调话费数字/胶囊，不让正常语音或流量变红。（**汇总**组件外观另见上文“三卡合一紧凑版”：每卡一个大胶囊块（卡槽色淡染＋1px 描边＋卡间留白）、内部卡槽色淡染胶囊、无限量卡渐变淡出＋`∞`＋「不限量」、填了总量才真实比例、`CARD_ORDER` 可调顺序；单卡路径本身未改动。）
+A 轻量账单（**单卡**组件）：顶部卡身份及按卡槽固定配色的小圆点，右侧仅 HH:mm（北京时间）。话费淡暖杏、语音淡紫、流量浅蓝，三枚无描边、无渐变胶囊；深色使用低 alpha 淡色底及白色数字。小号话费居中、语音/流量并排；中/大号横排。上下内边距8、内容间距6，标题身份与尾号、时间独立排版；移除标题中的多余弹性 spacer，无数据页不再用垂直弹性 spacer 撑开空白。不设置组件外框固定高度，锁屏沿用0/4内边距。动态资源标签提亮并使用 medium 字重，数值精度及单位不改。正常不显示“已更新”或底部装饰短横线，缓存/失效等异常保留准确提示。低话费只强调话费数字/胶囊，不让正常语音或流量变红。（**汇总**组件外观另见上文“三卡合一紧凑版”：每卡一个中性深色圆角块＋细色轨，话费／语音／流量横向三列、无限量卡渐变淡出＋`∞`＋「不限量」、填了总量才真实比例、`CARD_ORDER` 可调顺序；单卡路径本身未改动。）
 
 标题直接使用 API 的 dynamicFeeTitle / dynamicVoiceTitle / dynamicFlowTitle；例如“剩余通用流量”或“已用流量”按接口原义显示。缺失/异常标题使用“话费/语音/流量”，不会按数值推断剩余。保留 GB 等原单位及负话费。
 
